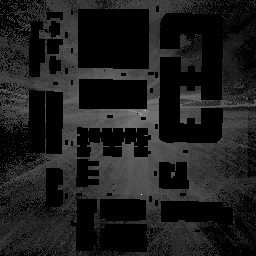
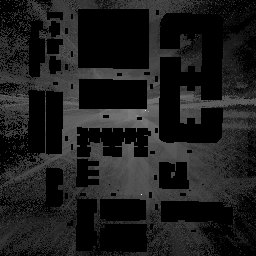
backend

diff --git a/data_gain.py b/data_gain.py
@@ -35,10 +35,10 @@ scene.rx_array = scene.tx_array
 rm_solver = RadioMapSolver()
 
 
-displacement_vec_x_p = [10,0,0]
-displacement_vec_x_n = [-10,0,0]
-displacement_vec_y_p = [0,10,0]
-displacement_vec_y_n = [0,-10,0]
+displacement_vec_x_p = [8,0,0]
+displacement_vec_x_n = [-8,0,0]
+displacement_vec_y_p = [0,8,0]
+displacement_vec_y_n = [0,-8,0]
 num_displacements = 2
 image_width = 256
 image_height = 256
